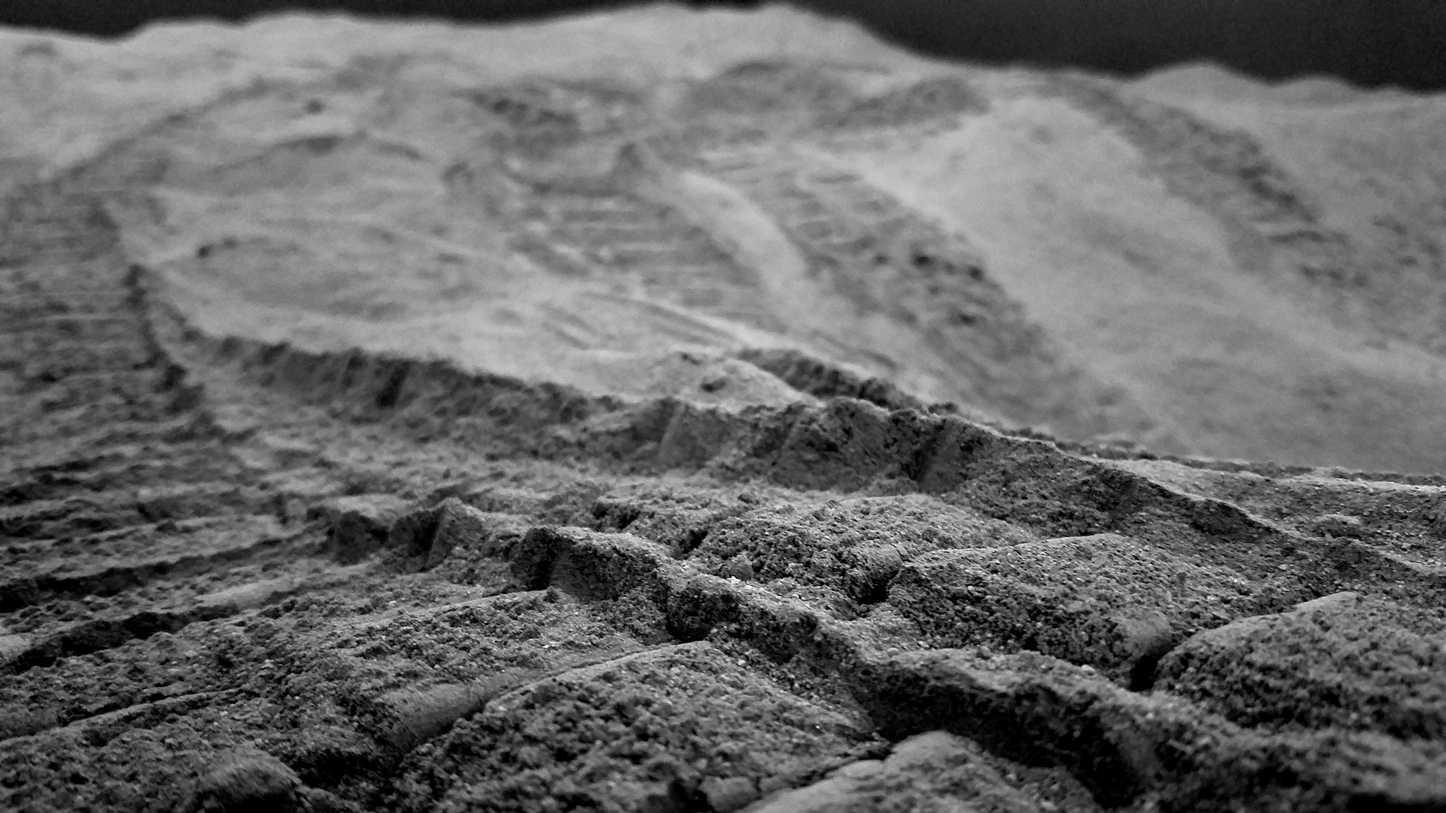
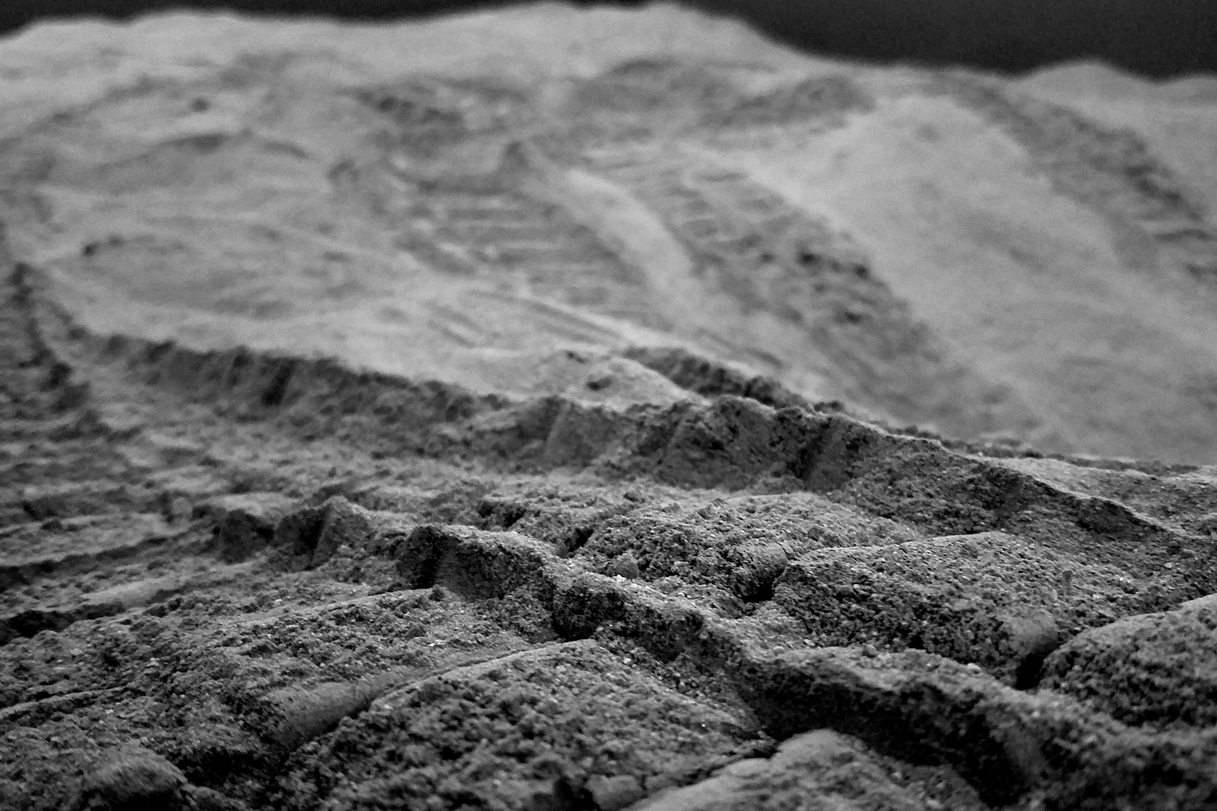
bg chnges

diff --git a/index.html b/index.html
@@ -50,7 +50,7 @@
 				<div class="fullscreen-slider-activation slick-dot-vertical-center">
 					<div class="bently-element-carousel" data-slick-options='{ "spaceBetween": 0, "slidesToShow": 1, "slidesToScroll": 1, "arrows": false, "infinite": true, "dots": true }' data-slick-responsive='[ {"breakpoint":768, "settings": {"slidesToShow": 1}}, {"breakpoint":577, "settings": {"slidesToShow": 1}}, {"breakpoint":481, "settings": {"slidesToShow": 1}} ]'>
 						<!-- Start Single Slider -->
-						<div class="slide-portfolio-single fullscreen d-flex align-items-center bg_image--10" data-overlay="2">
+						<div class="slide-portfolio-single fullscreen d-flex align-items-center bg_image--11" data-overlay="2">
 							<div class="content text-center resume-slider-content">
 								<h1 class="heading heading-h1 text-white"><span class="theme-color">Charlie</span> Fuller</h1>
 							</div>
